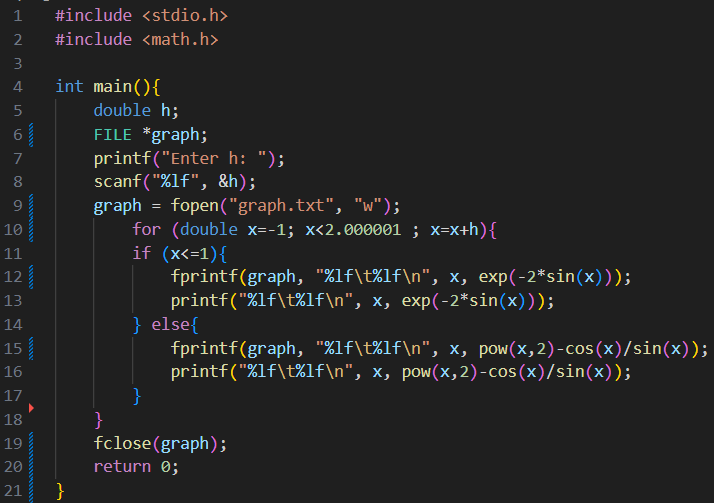
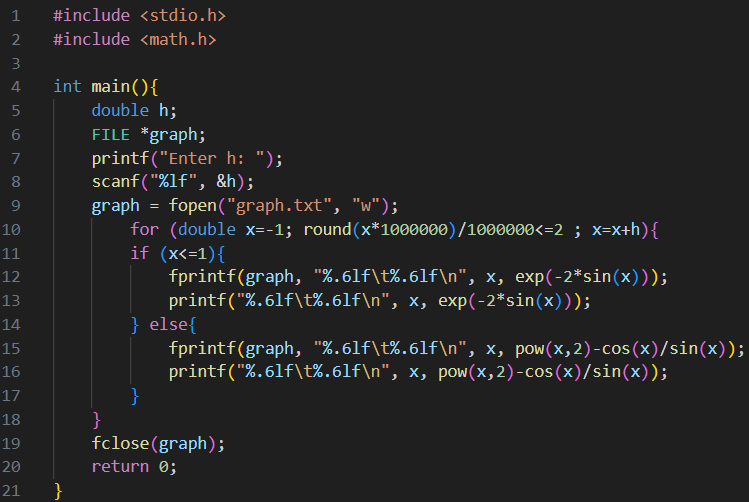
nunet

diff --git a/while.c b/while.c
@@ -2,13 +2,12 @@
 #include <math.h>
 
 int main(){
-    double h;
+    double h, x=-1;
     FILE *graph;
     printf("Enter h: ");
     scanf("%lf", &h);
     graph = fopen("graph.txt", "w");
-    double x=-1;
-    while (x<2.000001){
+    while (x<=2){
         if (x<=1){
             fprintf(graph, "%lf\t%lf\n", x, exp(-2*sin(x)));
             printf("%lf\t%lf\n", x, exp(-2*sin(x)));
@@ -17,17 +16,8 @@ int main(){
             printf("%lf\t%lf\n", x, pow(x,2)-cos(x)/sin(x));
         }
         x+=h;
+        x=round(x*1000000)/1000000;
     }
     fclose(graph);
-    // for (double x=-1; x<2.000001 ; x=x+h){
-    //     if (x<=1){
-    //         fprintf(graph, "%lf\t%lf\n", x, exp(-2*sin(x)));
-    //         printf("%lf\t%lf\n", x, exp(-2*sin(x)));
-    //     } else{
-    //         fprintf(graph, "%lf\t%lf\n", x, pow(x,2)-cos(x)/sin(x));
-    //         printf("%lf\t%lf\n", x, pow(x,2)-cos(x)/sin(x));
-    //     }
-    // }
-    // fclose(graph);
     return 0;
 }

diff --git a/for.c b/for.c
@@ -1,0 +1,22 @@
+#include <stdio.h>
+#include <math.h>
+
+
+int main(){
+    double h;
+    FILE *graph;
+    printf("Enter h: ");
+    scanf("%lf", &h);
+    graph = fopen("graph.txt", "w");
+        for (double x=-1; round(x*1000000)/1000000<=2 ; x=x+h){
+        if (x<=1){
+            fprintf(graph, "%.6lf\t%.6lf\n", x, exp(-2*sin(x)));
+            printf("%.6lf\t%.6lf\n", x, exp(-2*sin(x)));
+        } else{
+            fprintf(graph, "%.6lf\t%.6lf\n", x, pow(x,2)-cos(x)/sin(x));
+            printf("%.6lf\t%.6lf\n", x, pow(x,2)-cos(x)/sin(x));
+        }
+    }
+    fclose(graph);
+    return 0;
+}

diff --git a/readme.md b/readme.md
@@ -12,6 +12,9 @@
 - График функции
 - Ссылки на используемые материалы
 
+### Задание варианта:
+![var7](var7.png)
+
 
 
 ## Описание проделанной работы
